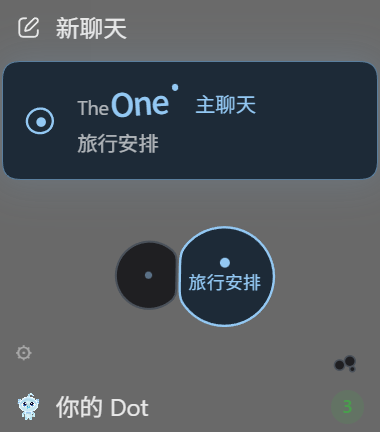
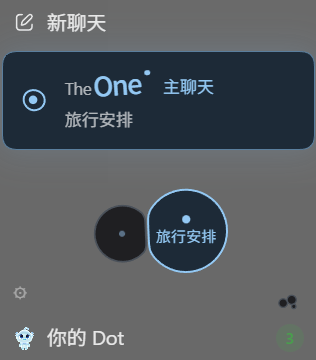
Draft the public README in Chinese and English

diff --git a/README.md b/README.md
@@ -1,70 +1,106 @@
-# TheOne for Codex
+<h1 align="center">TheOne for Codex</h1>
 
-把 DSH TheOne 的「一个入口聊多件事，每件事保有独立上下文」迁入本地 Codex。插件当前是 **0.1.0-alpha.9**，客户端适配为 **0.4.2**。以 DSH **0.4.6 / a943701** 为当前界面基线：在「新聊天」下面保留主聊天卡片，卡片下直接显示话题细胞，使用 Codex 原有输入框与回复区。
+<p align="center"><b>Codex 会话多到翻不到？以后只在一个主聊天里说，它自己接上。</b><br>每句话自动路由到对应的那件事，每件事有自己的 Codex 会话和上下文，隔几天回来也能接着做。</p>
 
-已抽取 DSH 的话题、路由、事实、学习记录和持久任务核心，接入真正的 Codex App Server，并提供 Skills + MCP 插件包。没有对原 DSH 源码或聊天数据库做修改。
+<p align="center">
+  <img alt="Codex desktop / CLI" src="https://img.shields.io/badge/Codex-desktop%20%7C%20CLI-1f6feb">
+  <img alt="免费开源 MIT" src="https://img.shields.io/badge/免费开源-MIT-3c873a">
+  <img alt="移植自 DSH TheOne 0.4.6" src="https://img.shields.io/badge/移植自-DSH%20TheOne%200.4.6-a75b1e">
+</p>
 
-## 已实现
+<p align="center">简体中文 | <a href="./README.en.md">English</a></p>
 
-- 话题创建、目录、重命名、摘要、进度、完成状态、分组、约束、隐私、关联与排除；合并、撤销合并和删除。
-- 本地规则路由、指定话题，以及可选 OpenAI 兼容模型路由；候选校验、失败回退、纠错记录与重复输入去重。
-- 每个话题独立 Codex 会话，创建、恢复、排队、取消和手动压缩；同项目与重叠目录串行，排队后重新检查权限。
-- 命令/文件审批及用户问题转发；请求绑定、过期处理、拒绝与取消，不重放已经执行的工具。
-- SQLite 持久化、本地历史搜索、分页阅读、version 1 JSON 导入/导出；来源 ID 去重，导入内容不充当已确认事实。
-- 原生历史整理：首次询问、后期手动启动、会话/文件夹排除、LLM 按轮次分类并复用已有话题；每批最多 16 轮、两段聊天并行分类，已有话题只返回归属和变化字段，逐批生成气泡，支持暂停、重启恢复和增量去重。
-- 有出处的事实记录、版本、查找和撤回；共享范围过滤，已引用事实变化时附带通知。
-- 有期限和次数上限的公共 GitHub PR 只读持续任务，本地通知及暂停、恢复、取消。
-- TheOne 全局导航入口、原生会话话题面板、入口技能、43 个 MCP 工具、可选主聊天 hook、独立打包服务器和本地 marketplace。
-- 本机客户端适配：固定主聊天、重复点击保留草稿、发送后保存原生会话身份；直接移用 DSH 0.4.6 的细胞绘制、名称悬停、详情和所有话题筛选。
-- 细胞操作接入真实话题服务：在主聊天继续、先放一边、空闲话题合并与撤销、停止运行或取消排队；设置支持启用、工作权限和共享范围。
+<p align="center"><img src="./docs/images/topic-cells.png" alt="Codex 侧边栏「新聊天」下面是 TheOne 主聊天卡片，卡片下是话题细胞，当前话题「旅行安排」亮着" width="380"></p>
 
-## 本机使用
+<p align="center"><b>QQ 交流群：1080980184</b>：装不上、分错了、想要什么功能，进群说一声。</p>
 
-完全退出当前 Codex（包括旧版 TheOne），然后双击桌面 **Codex TheOne**。按钮位于「新聊天」下面；首次点击在原生输入框中附上 TheOne 插件，直接输入任务即可，之后回到同一个主聊天。话题细胞来自实际话题库，空库不会显示演示细胞。启动器不会关闭当前对话，原版安装和快捷方式保留。
+---
 
-首次点击还会显示“整理以前的聊天”：选择模型、思考强度及参与的会话后开始，或暂时跳过。默认优先 **GPT-6 Luna＋中度思考＋标准速度**，可点亮 **⚡ 快速** 加速并增加消耗。模型及能力来自当前 Codex 的可用目录；没有 Luna 经济选项时要求手动选择，已保存的模型不可用时不会悄悄换模型。设置只用于历史整理，不修改 Codex 全局模型；点击开始后保存，重启仍沿用。
+TheOne 原本是 [DeepSeek Harness（DSH）](https://github.com/YunongDai2005/dsh-theone) 的插件。这是它的 Codex 版本：话题、路由、事实记录和细胞界面都从 DSH TheOne 0.4.6 移植过来，模型调用改用你现有的 Codex 登录。
 
-以后右键 TheOne → 设置 → **整理历史**，也可从“管理话题”打开并更换模型；运行中先暂停。整理使用现有 Codex 登录，会消耗模型额度。完成的批次直接形成气泡，原聊天不修改；选择气泡后继续使用原生输入框。整理只在本地插件进程运行时推进，暂停或关闭后已完成批次保留。
+## 它解决什么
 
-alpha.9 会在两批同时提出新话题时，用同一模型做一次简短的归属核对，减少重复气泡；这次调用也计入每轮 64 次请求的限制。仍有可整理积压时约一秒后续跑，空闲或失败后按正常间隔检查。默认仍是 Luna、中度思考、快速关闭；本次提速不靠提高模型档位。
+- 「之前聊过的那个在哪来着？」：Codex 侧边栏里几十个会话，旧的找不到。
+- 「懒得新建了，就在这儿接着问吧」：一个会话越聊越杂，压缩一次细节就没了。
+- 「我不是跟你说过了吗？」：换了会话，AI 不记得之前定下的东西。
 
-这是针对 Windows 客户端 `26.1103.4239.0` 的本地适配副本，原版升级后需要重新适配。构建、验证、启动和恢复说明见 [客户端适配](docs/client-adapter.md)。
+**TheOne 的做法：** 你只在一个主聊天里说话。TheOne 判断每条消息属于哪件事（对话路由），把它送进那件事自己的 Codex 会话；新的事就新开一个话题。结果回到主聊天，你看到的始终是一个对话。
 
-## 构建与运行
+## 它怎么做：对话路由
 
-需要 Node.js 24+、npm 和已登录的 Codex CLI。本机验收版本为 Node 24.21.0、Codex CLI 0.167.0-alpha.3.2。
+每条消息按这个顺序决定去哪个话题：
 
-```powershell
-npm ci --ignore-scripts
-npm run check
-npm run doctor
+1. **你点名了话题**：照你说的。
+2. **预路由**：你一按发送，TheOne 就在后台开始路由，和主模型的思考同时进行。等主模型把任务交过来时，结果通常已经出来了。
+3. **主模型的判断**：主聊天的模型看过整段对话，「继续」「那个」这类指代它最清楚。它有把握、话题也对得上时，直接采用，不额外调用模型。
+4. **路由模型**：用你的 Codex 登录调一次模型判断，判断不稳时再复核一次。路由提示词、校验和复核规则与 DSH 版相同。
+5. **本地规则**：模型调用失败时兜底。
+
+路由模型默认用 GPT-6 Luna、低思考强度，可以在设置里换。实测见 [路由延迟记录](evidence/router-latency-luna-low.json)。
+
+## 功能
+
+- **每件事一个独立的 Codex 会话**：上下文互不干扰；同一个项目的话题按顺序排队，不会同时改同一批文件。
+- **话题细胞**：「新聊天」下面是主聊天卡片，卡片下的细胞就是你的话题。正在干活、等你回答、刚回答完的细胞会显示名字；其余的鼠标靠近才显示。拖一个细胞到另一个上就是合并，把消息拖到别的细胞上就是改派。
+- **分错了能改**：改派只修正归属，不会悄悄撤销已经做过的改动。疑似重复的话题会用虚线连起来，由你决定要不要合并。
+- **一次性插问**：「1 英寸是多少厘米」这类顺口一问，回答完自动收起，主聊天回到原来的话题。
+- **有出处的事实记录**：定下来的数值和决定会记下来源和版本；被引用的事实变了，相关话题会收到通知。
+- **整理以前的聊天**：经你同意后，用你选的模型读一遍选中的旧会话，整理成话题细胞。只读不改，原会话原样保留。
+- **隐私**：话题可以设为私密（不共享给其他话题）或排除（不参与路由和检索）。
+- **用你现有的 Codex 登录**：不用另填 API Key。会消耗你 Codex 账户的模型额度。
+
+## 安装
+
+需要 Codex（桌面版或 CLI）和 Node.js 24 以上。
+
+**只装插件（桌面版和 CLI 都能用）：**
+
+```bash
+codex plugin marketplace add YunongDai2005/theone-codex --ref marketplace
 ```
 
-构建产物是 `release/gpt-theone`，连同依赖打包，不需要在安装副本中再执行 npm install。生成 ZIP：
-
-```powershell
-powershell -NoProfile -File scripts/package.ps1
+```bash
+codex plugin add theone@theone-codex
 ```
 
-从本机目录安装（这两条会修改使用者自己的 Codex 插件配置）：
+装好后重启 Codex。桌面版的 TheOne 入口在「探索 / 更多」里，固定后进入侧边栏；项目聊天里也可以用 `$theone`。
 
-```powershell
-codex plugin marketplace add D:/doc/ChatGPT/gpt-theone/release
-codex plugin add gpt-theone@theone-local
+**完整界面（Windows 桌面版）：** 想要「新聊天」下面的主聊天卡片和话题细胞，还需要装客户端适配。它会在本机复制一份 Codex 桌面版再打补丁，原版安装和快捷方式保留不动：
+
+```bash
+git clone https://github.com/YunongDai2005/theone-codex.git
 ```
 
-安装或更新后重启桌面。在当前桌面版本中，TheOne 全局入口先出现在「探索 / 更多」中，固定后进入应用总导航。点击它时，插件请求打开预填启用内容的 **Codex 原生聊天草稿**，补充任务后发送。在原生会话面板中打开「TheOne 话题」可以创建或选择话题，将引用加入原来的输入框。也可在项目聊天中使用 `$theone`。
+```bash
+cd theone-codex && npm ci --ignore-scripts && npm run build && npm run client:install
+```
 
-**仅安装插件与客户端适配的区别：** `global` 入口的固定与排序控制应用总导航；公开扩展协议没有「新聊天」相邻位置的插槽。上面的本机客户端适配单独实现了这个位置，不能只靠安装插件获得。此前的诊断保留在 [桌面入口记录](evidence/desktop-entrypoint-diagnosis.json)。
+之后从桌面的 **Codex TheOne** 快捷方式启动。客户端适配针对 Codex 桌面版 `26.1103.4239.0`，原版升级后需要重新运行 `npm run client:install`。详见 [客户端适配](docs/client-adapter.md)。
 
-插件自身的原生草稿桥接通过了模拟宿主浏览器验收。客户端适配的实际窗口检查另见 [client-adapter-runtime.json](evidence/client-adapter-runtime.json)，两者不混作同一种证据。宿主未声明 `openai/message` 时，插件入口明确提示不支持，不替换成独立聊天页面。插件安装检查见 [local-installation-ui.json](evidence/local-installation-ui.json)，验证边界见 [实现记录](docs/implementation-status.md)。接口依据：[Plugin Extensions](https://developers.openai.com/plugins/build/extensions)，打包依据：[插件结构](https://developers.openai.com/plugins/build/plugins) 和 [本地 MCP 配置](https://developers.openai.com/plugins/deploy/desktop-only)。
+## 和 DSH 版的区别
 
-默认使用本地规则分类及 Codex 已有登录；执行沙箱默认只读。模型分类接口、数据目录、可选 hook 的配置见 [运行说明](docs/runtime.md)。hook 默认未启用；它是指定聊天的提醒入口，宿主仍需要 [审阅并信任 hook](https://learn.chatgpt.com/docs/hooks)。
+| | DSH 版 | Codex 版 |
+|---|---|---|
+| 模型 | DSH 里配置的服务商 | 你的 Codex 登录 |
+| 路由的时机 | 路由完才开始回答 | 和主模型思考同时进行 |
+| 主模型参与路由 | 否 | 是，有把握时直接采用 |
+| 消息桥（微信、Telegram、iMessage） | 有 | 没有（依赖 DSH 服务端） |
+| 工具卡片镜像 | 有 | 没有（DSH 宿主特有） |
 
-## 验证范围与后续
+完整的能力表见 [实现记录](docs/implementation-status.md)。
 
-自动测试覆盖迁入核心和新适配器；真实验证记录见 [实现与验证记录](docs/implementation-status.md)。
+## 常见问题
 
-当前输出由主聊天读取 MCP 结果后呈现。细胞侧栏已接入；DSH 原生工具卡片镜像、完整候选路由事件流、排队合并、重复话题建议、前台指代、临时插问返回、消息桥和自动更新仍需迁移。持续任务依赖本地进程存活。当前 alpha 不能按 DSH 全功能等价版发布。
+**会多花额度吗？** 主模型有把握时不额外调用。需要路由模型时，每条消息多一次低思考强度的调用；整理旧聊天按你选的模型计费。
 
-源码基线是 DSH TheOne `0.4.5` 的开发分支快照 `fe436d005be92541ceb82495eacf83d7230c2488`。保留原 MIT 许可和来源说明：[UPSTREAM.md](UPSTREAM.md)。准备阶段的 [源码审阅](docs/source-audit.md)、[移植方案](docs/port-plan.md)、[适配层约定](docs/adapter-contracts.md)、[完整验收清单](docs/acceptance.md) 继续作为后续规格；当前状态以实现记录为准。
+**客户端适配安全吗？** 它只改本机复制出来的那一份 Codex 桌面版，不改原版安装，也不改你的聊天数据。不想用可以只装插件。
+
+**这是 OpenAI 官方的吗？** 不是。TheOne 是独立的开源项目，与 OpenAI 无关。
+
+## 验证
+
+`npm run check`：类型检查、全部单元测试和构建。客户端适配另有 `npm run client:test`。每次发版的测试结果写在 [Releases](https://github.com/YunongDai2005/theone-codex/releases) 里。
+
+## 来源和许可
+
+MIT。核心代码移植自 [YunongDai2005/dsh-theone](https://github.com/YunongDai2005/dsh-theone)，来源和对应提交见 [UPSTREAM.md](UPSTREAM.md)。

diff --git a/README.en.md b/README.en.md
@@ -1,0 +1,104 @@
+<h1 align="center">TheOne for Codex</h1>
+
+<p align="center"><b>Too many Codex sessions to find anything? Talk in one main chat and let it pick up the right thread.</b><br>Every message is routed to the matter it belongs to; each matter keeps its own Codex session and context, so you can come back days later and carry on.</p>
+
+<p align="center">
+  <img alt="Codex desktop / CLI" src="https://img.shields.io/badge/Codex-desktop%20%7C%20CLI-1f6feb">
+  <img alt="Free and open source, MIT" src="https://img.shields.io/badge/open%20source-MIT-3c873a">
+  <img alt="Ported from DSH TheOne 0.4.6" src="https://img.shields.io/badge/ported%20from-DSH%20TheOne%200.4.6-a75b1e">
+</p>
+
+<p align="center"><a href="./README.md">简体中文</a> | English</p>
+
+<p align="center"><img src="./docs/images/topic-cells.png" alt="Under New chat in the Codex sidebar: the TheOne main-chat card, and below it the topic cells, with the current topic lit" width="380"></p>
+
+---
+
+TheOne started as a plugin for [DeepSeek Harness (DSH)](https://github.com/YunongDai2005/dsh-theone). This is its Codex edition: topics, routing, fact records and the cell interface are ported from DSH TheOne 0.4.6, and model calls use your existing Codex sign-in.
+
+## The problem
+
+- "Where was that conversation again?" Dozens of sessions in the Codex sidebar, and the old one is gone.
+- "I'll just ask here." One session collects everything, and details vanish at the next compaction.
+- "I told you this already." A new session does not know what an old one settled.
+
+**What TheOne does:** you talk in one main chat. TheOne decides which matter each message belongs to (conversation routing) and sends it to that matter's own Codex session; something new gets a new topic. Answers come back to the main chat, so you only ever see one conversation.
+
+## How routing works
+
+Each message takes the first of these that applies:
+
+1. **You named a topic**: it goes there.
+2. **Pre-routing**: routing starts in the background the moment you press send, while the main model is still thinking. By the time the main model hands the task over, the result is usually ready.
+3. **The main model's judgement**: the main chat's model has read the whole conversation and knows what "continue" or "that one" refers to. When it is confident and the topic checks out, TheOne uses its choice without another model call.
+4. **The routing model**: one model call on your Codex sign-in, with a second look when the first answer is shaky. The prompt, validation and recheck rules are the same as in DSH.
+5. **Local rules**: the fallback if a model call fails.
+
+The routing model defaults to GPT-6 Luna at low reasoning effort and can be changed in settings. Measurements: [routing latency record](evidence/router-latency-luna-low.json).
+
+## Features
+
+- **One Codex session per matter**: contexts stay apart; topics in the same project queue so they never edit the same files at once.
+- **Topic cells**: under New chat sits the main-chat card, and under it a cell for each topic. Cells that are working, waiting for you or freshly answered show their names; the rest show them when the pointer comes near. Drop one cell on another to merge; drop a message on another cell to reroute it.
+- **Fix a wrong route**: rerouting changes where a message belongs and never silently undoes work already done. Likely duplicates are joined by a dotted line for you to decide.
+- **One-off asides**: a quick "how many cm in an inch" is answered and folds away, and the main chat returns to the topic you were on.
+- **Facts with sources**: settled numbers and decisions are kept with their source and version; when a cited fact changes, the topics using it are told.
+- **Organise past chats**: with your consent, a model of your choice reads the sessions you pick and turns them into topic cells. Read-only; your sessions stay as they are.
+- **Privacy**: a topic can be private (never shared with other topics) or excluded (kept out of routing and search).
+- **Your existing Codex sign-in**: no API key to enter. It uses your Codex account's model quota.
+
+## Install
+
+Requires Codex (desktop or CLI) and Node.js 24 or later.
+
+**Plugin only (desktop and CLI):**
+
+```bash
+codex plugin marketplace add YunongDai2005/theone-codex --ref marketplace
+```
+
+```bash
+codex plugin add theone@theone-codex
+```
+
+Restart Codex. On desktop, TheOne appears under Explore / More; pin it to the sidebar. In project chats you can also use `$theone`.
+
+**Full interface (Windows desktop):** the main-chat card and topic cells under New chat need the client adapter. It patches a local copy of Codex desktop and leaves your original install and shortcuts untouched:
+
+```bash
+git clone https://github.com/YunongDai2005/theone-codex.git
+```
+
+```bash
+cd theone-codex && npm ci --ignore-scripts && npm run build && npm run client:install
+```
+
+Then start from the **Codex TheOne** desktop shortcut. The adapter targets Codex desktop `26.1103.4239.0`; after Codex updates, run `npm run client:install` again. See [client adapter](docs/client-adapter.md).
+
+## Compared with the DSH edition
+
+| | DSH | Codex |
+|---|---|---|
+| Model | The provider configured in DSH | Your Codex sign-in |
+| When routing runs | Before the answer starts | Alongside the main model's thinking |
+| Main model helps route | No | Yes, used when confident |
+| Message bridges (WeChat, Telegram, iMessage) | Yes | No (needs the DSH server) |
+| Tool-card mirroring | Yes | No (DSH host only) |
+
+Full capability table: [implementation record](docs/implementation-status.md).
+
+## FAQ
+
+**Does it cost extra quota?** Not when the main model is confident. When the routing model is needed, a message costs one extra low-effort call; organising past chats is billed on the model you choose.
+
+**Is the client adapter safe?** It only changes the local copy of Codex desktop it makes, never your original install or your chat data. You can use the plugin alone.
+
+**Is this an official OpenAI project?** No. TheOne is an independent open-source project, not affiliated with OpenAI.
+
+## Verification
+
+`npm run check` runs the type check, all unit tests and the build; the client adapter has `npm run client:test`. Each release lists its test results under [Releases](https://github.com/YunongDai2005/theone-codex/releases).
+
+## Origin and licence
+
+MIT. The core is ported from [YunongDai2005/dsh-theone](https://github.com/YunongDai2005/dsh-theone); sources and commits are listed in [UPSTREAM.md](UPSTREAM.md).
